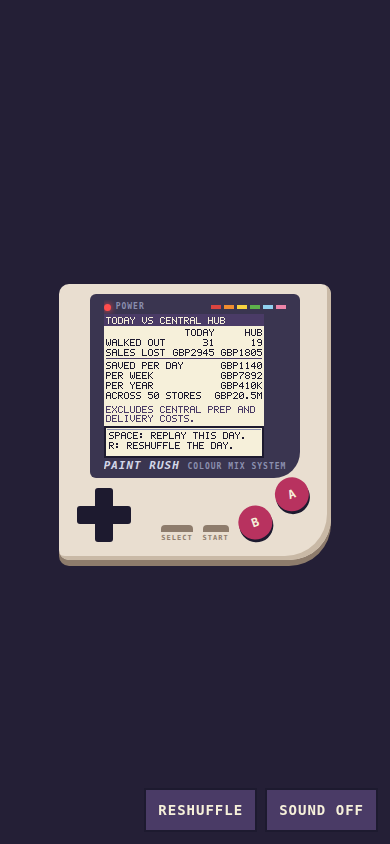
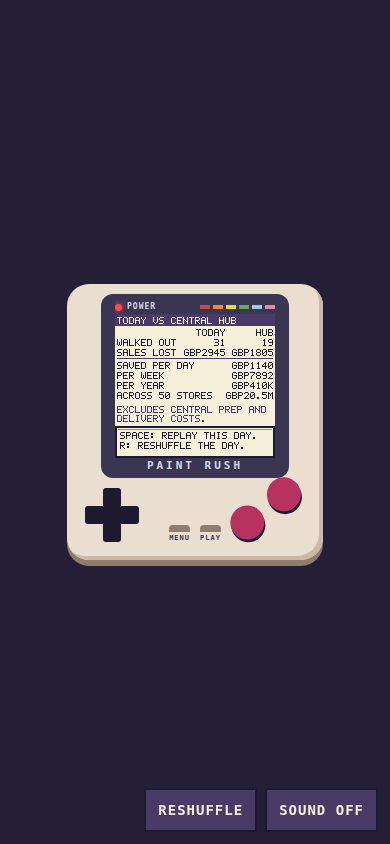
feat: make the console frame generic and fix the bezel label contrast

Changed region(s): [[0.2154, 0.3389, 0.8615, 0.6777], [0.1538, 0.3389, 0.2154, 0.6777], [0.3385, 0.5853, 0.3692, 0.6161]]

diff --git a/src/styles/main.css b/src/styles/main.css
@@ -132,7 +132,7 @@ body[data-step='settings'] #increase {
   align-items: center;
   gap: 10px 8px;
   padding: 10px 10px 18px;
-  border-radius: 10px 10px 42px 10px;
+  border-radius: 22px;
   background: var(--shell);
   box-shadow:
     inset -4px -4px 0 var(--shell-shade),
@@ -143,7 +143,7 @@ body[data-step='settings'] #increase {
   grid-area: bezel;
   justify-self: center;
   padding: 6px 14px 4px;
-  border-radius: 6px 6px 26px 6px;
+  border-radius: 12px;
   background: var(--bezel);
 }
 
@@ -155,7 +155,7 @@ body[data-step='settings'] #increase {
   height: 14px;
   font: bold 8px/1 monospace;
   letter-spacing: 1px;
-  color: var(--px-slate);
+  color: var(--px-mist);
 }
 
 .led {
@@ -203,15 +203,10 @@ body[data-step='settings'] #increase {
   white-space: nowrap;
   margin: 0;
   height: 16px;
-  font: italic bold 11px/16px monospace;
-  letter-spacing: 1px;
+  font: bold 11px/16px monospace;
+  letter-spacing: 3px;
+  text-align: center;
   color: var(--px-mist);
-}
-
-.brand span {
-  font-size: 8px;
-  font-style: normal;
-  color: var(--px-slate);
 }
 
 .dpad {
@@ -246,7 +241,7 @@ body[data-step='settings'] #increase {
   align-self: end;
   font: bold 7px/1 monospace;
   letter-spacing: 1px;
-  color: var(--shell-dark);
+  color: var(--bezel);
 }
 
 .pills span {
@@ -272,11 +267,9 @@ body[data-step='settings'] #increase {
   border-radius: 50%;
   background: var(--button-a);
   box-shadow: 0 3px 0 var(--px-ink);
-  font: bold 12px/1 monospace;
-  color: var(--px-cream);
 }
 
-.ab .a {
+.ab span:last-child {
   margin-top: -14px;
 }
 
@@ -288,7 +281,6 @@ body[data-step='settings'] #increase {
       'pills bezel ab';
     grid-template-columns: auto auto auto;
     padding: 8px 14px;
-    border-radius: 10px 10px 30px 10px;
   }
 
   .pills {

diff --git a/index.html b/index.html
@@ -32,11 +32,11 @@
             <button type="button" id="back" hidden>BACK</button>
           </div>
         </div>
-        <p class="brand" aria-hidden="true">PAINT RUSH <span>COLOUR MIX SYSTEM</span></p>
+        <p class="brand" aria-hidden="true">PAINT RUSH</p>
       </div>
       <div class="dpad" aria-hidden="true"><span></span></div>
-      <div class="pills" aria-hidden="true"><span>SELECT</span><span>START</span></div>
-      <div class="ab" aria-hidden="true"><span class="b">B</span><span class="a">A</span></div>
+      <div class="pills" aria-hidden="true"><span>MENU</span><span>PLAY</span></div>
+      <div class="ab" aria-hidden="true"><span></span><span></span></div>
     </div>
     <p class="visually-hidden" id="prompt" aria-live="polite">PRESS SPACE</p>
   </main>
